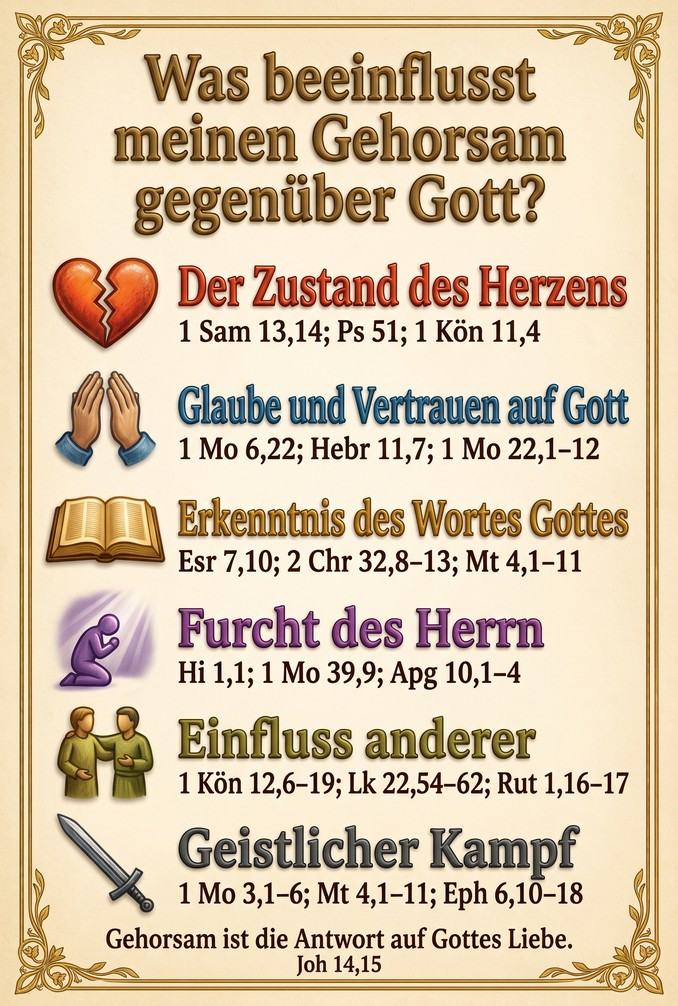
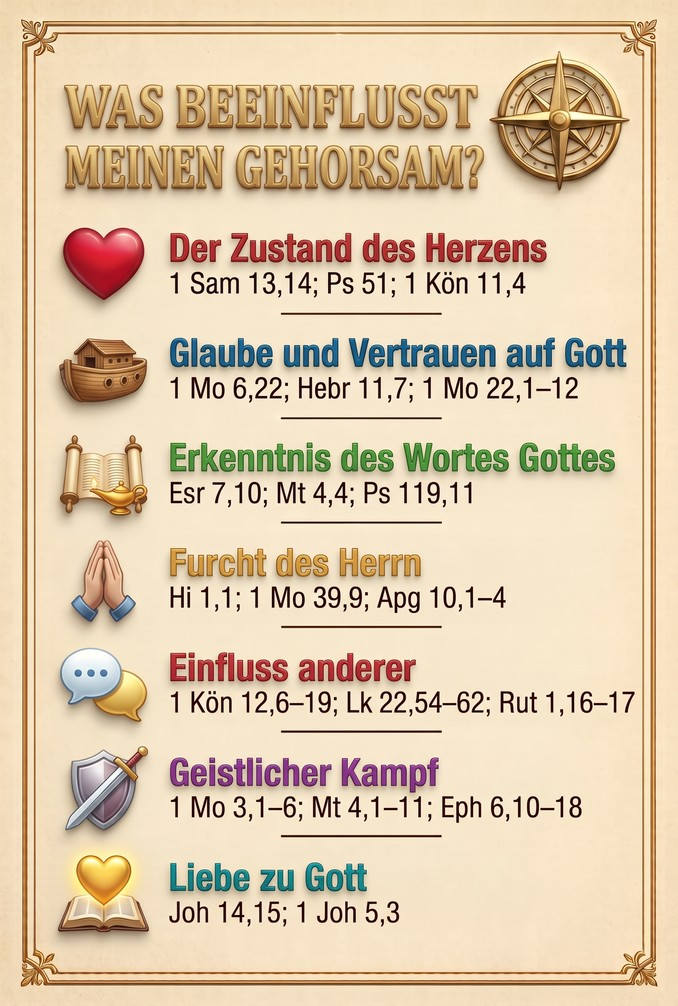
Karte 25: neue Rückseite (Gemini) mit sieben Zeilen, Gedanke-Notiz erweitert
Claude-Session: https://claude.ai/code/session_0124h5yDy6USGZ8DS8E24Fju

diff --git a/card-text.js b/card-text.js
@@ -26,7 +26,7 @@ window.COR_DEO_TEXT = {
  "22": "DER WILLE DES VATERS IST: | RICHTE DEIN LEBEN NACH DEM WILLEN GOTTES AUS | Eph 5,17 | ISEBEL | 1 Kön 16,29–33 | ESTER | Est 4,13–16 | FOLGE ICH GOTTES WILLEN ODER MEINEN EIGENEN BEGIERDEN? | DAS LEBEN NACH GOTTES WILLEN AUSRICHTEN | Hütet euch vor Götzendienst | Dan 3,16–18; 2 Mo 32,1–6; Kol 3,5 | Widersteht Manipulation & Missbrauch | 1 Kön 21,5–16; 2 Sam 13,1–19; Eph 5,11 | Gedenkt an Gottes Gerechtigkeit | 2 Kön 9,35–37; Ps 73,16–20; Apg 5,1–11 | Bleibt geistlich wachsam | 1 Petr 5,8; Mt 25,1–13; Neh 4,7–9 | Ergreift eure Berufung | Est 4,14; Jer 1,4–10; 1 Sam 3,1–10 | Vertraut auf Gottes Vorsehung | Röm 8,28; 1 Mo 50,20; Rut 2,12 | Gott wirkt Wollen und Vollbringen | Phil 2,13; 1 Kor 1,30",
  "23": "DER WILLE DES VATERS IST: FÜHRUNG IM GEBET, Kol 1,9 | KÖNIG ZEDEKIA | NEHEMIA | Jer 37–38 | Neh 1,4 | suche ich gottes führung wie nehemia, oder verwerfe ich sie wie zedekia? | Schlüssel zum Neubeginn | Priorisiere beständiges Gebet | Neh 1,4–11 | Tauche ein in Gottes Wort | Röm 12,2; Neh 1,8–9 | Lass Mitgefühl zur Tat werden | Neh 1,4; Neh 2,17–18 | Verbinde Gebet mit Planung | Neh 2,1–8 | Stell dich der Angst, gehorche Gott | Jer 38,14–20 | Erwarte Widerstand, überwinde ihn | Jer 37–38; Neh 4,1–9 | Gehorsam öffnet die Tür | Jer 38,20; Neh 2,8",
  "24": "DER WILLE DES VATERS IST: LIEBE, Joh 13,34–35 | KÖNIG SAUL | JONATHAN | 1 Sam 18,8–9 | 1 Sam 18,1–4 | würde ich meine „krone“ für gottes willen aufgeben? | Die Liebe ist das höchste Gebot | Liebe ist selbstlos und opferbereit | 1 Joh 3,16; 1 Sam 18,3–4; Röm 16,3–4 | Liebe vergibt & stellt wieder her | Kol 3,13; 1 Mo 50,20–21; Apg 7,59–60 | Liebe dient in Demut | Gal 5,13; Joh 13,14–15; Apg 9,36–39 | Liebe ermutigt und baut auf | 1 Thess 5,11; 1 Sam 23,16–17; Apg 11,23–24 | Liebe fördert Einheit und Annahme | Röm 15,7; Apg 9,26–28; Phlm 1,16–17 | Liebe beginnt bei Gott | 1 Joh 4,10.19; Joh 13,34 | Liebe erfüllt das Gesetz | Röm 13,8–10; Mt 22,37–40",
- "25": "DER WILLE DES VATERS IST: GEHORSAM, Mt 7,21 | ADAM & EVA | NOAH | 1 Mo 3,17 | 1 Mo 6,22 | was beeinflusst meine entscheidung, gott zu gehorchen oder ungehorsam zu sein? | Was beeinflusst meinen Gehorsam gegenüber Gott? | Der Zustand des Herzens | 1 Sam 13,14; Ps 51; 1 Kön 11,4 | Glaube und Vertrauen auf Gott | 1 Mo 6,22; Hebr 11,7; 1 Mo 22,1–12 | Erkenntnis des Wortes Gottes | Esr 7,10; 2 Chr 32,8–13; Mt 4,1–11 | Furcht des Herrn | Hi 1,1; 1 Mo 39,9; Apg 10,1–4 | Einfluss anderer | 1 Kön 12,6–19; Lk 22,54–62; Rut 1,16–17 | Geistlicher Kampf | 1 Mo 3,1–6; Mt 4,1–11; Eph 6,10–18 | Gehorsam ist die Antwort auf Gottes Liebe. | Joh 14,15",
+ "25": "DER WILLE DES VATERS IST: GEHORSAM, Mt 7,21 | ADAM & EVA | NOAH | 1 Mo 3,17 | 1 Mo 6,22 | was beeinflusst meine entscheidung, gott zu gehorchen oder ungehorsam zu sein? | Was beeinflusst meinen Gehorsam? | Der Zustand des Herzens | 1 Sam 13,14; Ps 51; 1 Kön 11,4 | Glaube und Vertrauen auf Gott | 1 Mo 6,22; Hebr 11,7; 1 Mo 22,1–12 | Erkenntnis des Wortes Gottes | Esr 7,10; Mt 4,4; Ps 119,11 | Furcht des Herrn | Hi 1,1; 1 Mo 39,9; Apg 10,1–4 | Einfluss anderer | 1 Kön 12,6–19; Lk 22,54–62; Rut 1,16–17 | Geistlicher Kampf | 1 Mo 3,1–6; Mt 4,1–11; Eph 6,10–18 | Liebe zu Gott | Joh 14,15; 1 Joh 5,3",
  "26": "DER WILLE DES VATERS IST: | HEILIGUNG | 1 Thess 4,3 | SIMSON | Ri 16,4–21 | JOSEF | 1 Mo 39,7–12 | IN MOMENTEN DER VERSUCHUNG: FLIEHST DU VOR DER SÜNDE ODER TREIBST DU AUF SIE ZU? | Berufen zur Heiligkeit | Dan 1,8; 6,10; 3,16–18 | Erneuert durch das Wort | Esr 7,10; Neh 8,8; Esr 10,1–4 | Gehorche mit Gottes Hilfe | 1 Mo 39,7–12; 45,7–8; 50,19–20 | Opfere dein Leben Gott | Lk 10,38–42; Joh 12,1–3; Mt 26,6–13 | Lege den alten Menschen ab | Apg 9,1–9; Phil 3,4–9; 2 Kor 5,17 | Wandle mit anderen in Liebe | Apg 2,42–47; 4,32–35; 5,12–14 | Lebe als neue Kreatur | Gal 1,15–16; Phil 3,10–14; 2 Tim 4,7–8 | Gottes Werk in uns | 1 Thess 5,23–24",
  "27": "Der Wille des Vaters ist: | EIN HEILIGES LEBEN FÜHREN | 1. THESS. 4,3-4 | HOFNI & PINEHAS | SAMUEL | 1.SAMUEL 2-4 | 1.SAMUEL 1-3 | VERUNREINIGUNG | REINHEIT | Ist mein Herz rein oder treibt es zur Verunreinigung? | Geistliche Führung erfordert Verantwortung | 1Sam 2,12-17, Ez 34,2-10, Jak 3,1 | Respektlosigkeit gegenüber Gottes Heiligkeit hat Konsequenzen | 1Sam 2,22-25; Lev 10,1-2, Apg 5,1-11 | Niemand kann Gott manipulieren oder kontrollieren | 1Sam 4,3-11, 4Mos 22,12-35, Mt 4,5-7 | Warnungen zu ignorieren führt zu Katastrophen | 1Sam 2,25; 3,13-14, 2Mos 7-12, Spr 29,1 | Versagen in der elterlichen Erziehung | 1Sam 2,22-25; 4,12-13, Spr 13,24",
  "28": "Der Wille des Vaters ist: | Demut | Phil. 2,3 | König Nebukadnezar | Mose | Daniel 4,29-37 | 4.Mose 12,3 | Wo brauchst du Demut? | Hochmut kommt vor dem Fall, Spr 16,18, | Gott widersteht den Hochmütigen | Jak 4,6; 1 Petr 5,5-6; Spr 29,23 | Hochmut vergisst Gott | 5 Mo 8,14,17-18; Dan 4,27.30; Apg 12,21-23 | Hochmut führt zu Streit | Spr 13,10; Spr 28,25; Jak 4,1 | Hochmut verbirgt Sünde | Spr 28,13; Spr 29,1; 2 Chr 7,14 | Größe durch Dienst | Mk 10,43-45; Mt 23,11-12; 4 Mo 12,3 | Ehre Gott, nicht dich | Jer 9,22-23; 1 Kor 1,31; Apg 12,23",

diff --git a/index.html b/index.html
@@ -2055,14 +2055,15 @@ window.COR_DEO_NOTES = {
   },
   25: {
     title: "Gehorsam: Was ihn beeinflusst",
-    text: "Gehorsam beginnt nicht erst bei der Tat, sondern im Herzen. Adam und Eva hörten auf die falsche Stimme, Noah tat alles, was Gott ihm gebot. Die Karte nennt sechs Dinge, die entscheiden, ob wir gehorchen oder nicht.",
-    sections: [{ h: "Sechs Einflüsse auf den Gehorsam", items: [
+    text: "Gehorsam beginnt nicht erst bei der Tat, sondern im Herzen. Adam und Eva hörten auf die falsche Stimme, Noah tat alles, was Gott ihm gebot. Die Karte nennt sieben Dinge, die entscheiden, ob wir gehorchen oder nicht.",
+    sections: [{ h: "Sieben Einflüsse auf den Gehorsam", items: [
       ["Der Zustand des Herzens", "Saul verlor das Königtum wegen seines Herzens, David war ein Mann nach Gottes Herzen. Salomos Herz wandte sich von Gott ab."],
       ["Glaube und Vertrauen auf Gott", "Noah baute im Glauben, Abraham gehorchte auch bei der schwersten Probe."],
-      ["Erkenntnis des Wortes Gottes", "Esra erforschte das Gesetz, um es zu tun. Jesus antwortete dem Versucher mit der Schrift."],
+      ["Erkenntnis des Wortes Gottes", "Esra erforschte das Gesetz, um es zu tun. Jesus antwortete dem Versucher mit der Schrift, und der Psalmist barg Gottes Wort im Herzen, um nicht zu sündigen."],
       ["Furcht des Herrn", "Hiob, Josef und Kornelius lebten in Ehrfurcht vor Gott. Darum sagte Josef: Wie sollte ich gegen Gott sündigen?"],
       ["Einfluss anderer", "Rehabeam folgte schlechtem Rat, Petrus gab der Angst vor Menschen nach, Rut ließ sich von Noomi zu Gott führen."],
-      ["Geistlicher Kampf", "Die Schlange säte Zweifel im Garten, Jesus widerstand in der Wüste. Der Gehorsam braucht Gottes Waffenrüstung."]
+      ["Geistlicher Kampf", "Die Schlange säte Zweifel im Garten, Jesus widerstand in der Wüste. Der Gehorsam braucht Gottes Waffenrüstung."],
+      ["Liebe zu Gott", "Wer Jesus liebt, hält Seine Gebote, und Seine Gebote sind nicht schwer. Gehorsam ist die Antwort auf Gottes Liebe."]
     ]}],
     question: "Was beeinflusst meinen Gehorsam gegenüber Gott gerade am stärksten?"
   },

diff --git a/sw.js b/sw.js
@@ -6,8 +6,8 @@
      sodass ein Update der Seite (VERSION erhöhen) die ~7,6 MB nicht erneut herunterlädt.
    - Fremde Adressen werden nicht angefasst (die Schriften liegen im Ordner fonts/ und werden wie Bilder aus dem Cache bedient).
    Bei Änderungen an diesem Skript: VERSION erhöhen. Bei neuen/geänderten Kartenbildern: IMG_CACHE erhöhen. */
-var VERSION = "cordeo-v119";
-var IMG_CACHE = "cordeo-img-v102";
+var VERSION = "cordeo-v120";
+var IMG_CACHE = "cordeo-img-v103";
 var CARD_COUNT = 120;                       // Anzahl der Bilddateien "COR DEO-Karten-001.jpg" … "-120.jpg"
 var PRECACHE_PARALLEL = 4;
 var SHELL = ["./", "index.html", "manifest.json", "pwa.js", "share.js", "legal.js", "card-text.js", "fonts/fonts.css", "share-qr.svg", "share-qr.png",
